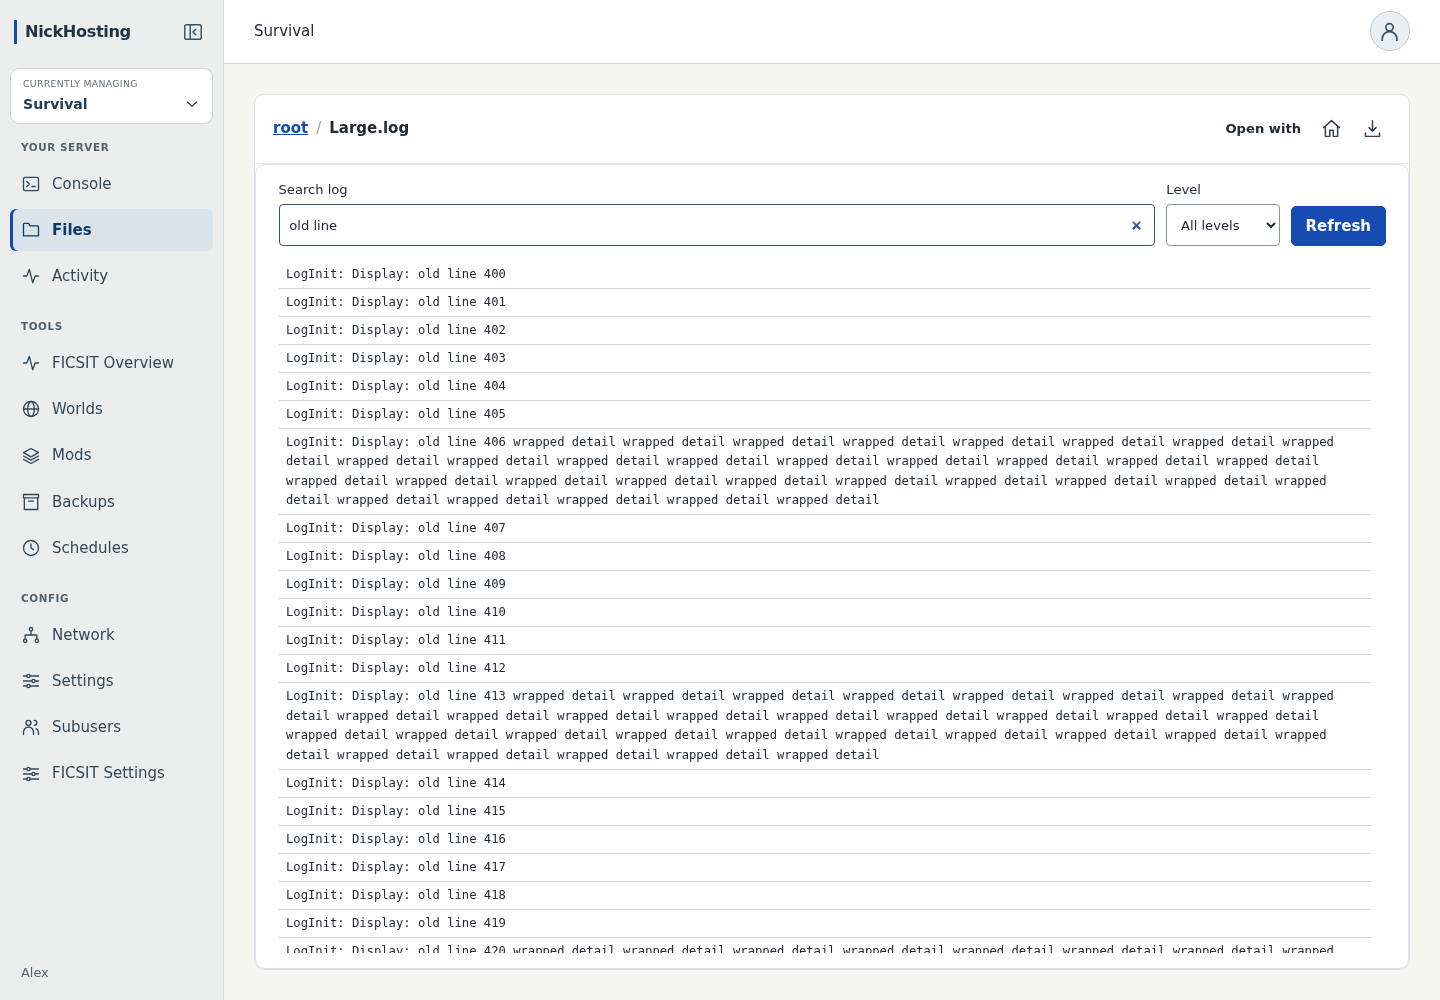
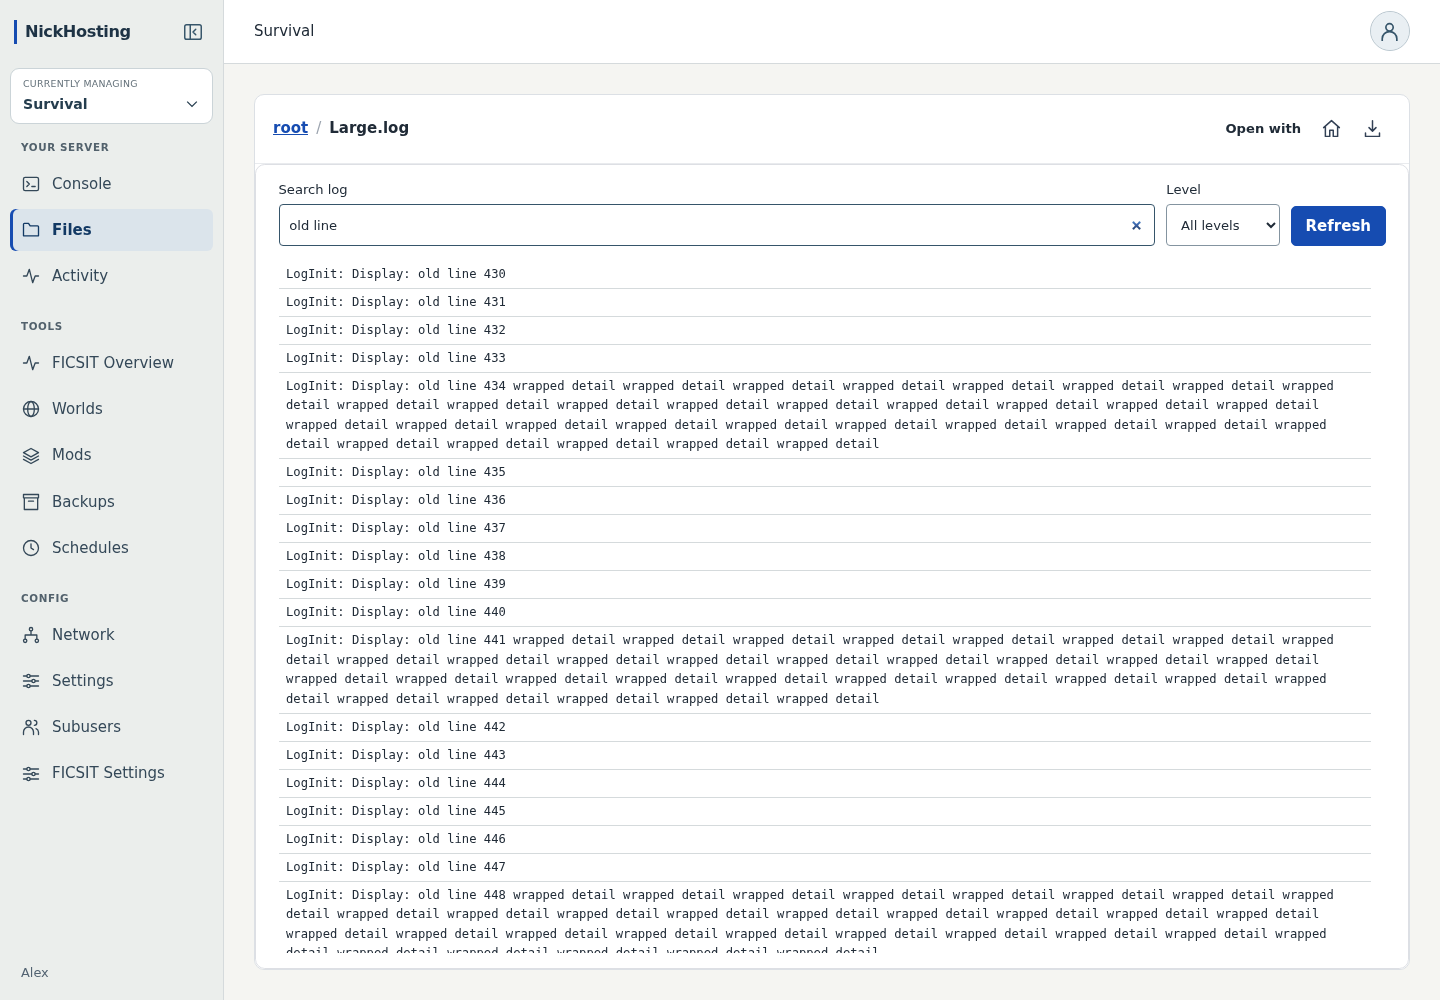
fix(satisfactory): prefetch log pages before scroll edges

Changed region(s): [[0.1875, 0.372, 0.9375, 0.527], [0.1875, 0.62, 0.9375, 0.775], [0.1875, 0.868, 0.9375, 0.961]]

diff --git a/apps/web/tests/satisfactory-diagnostics.browser.test.ts b/apps/web/tests/satisfactory-diagnostics.browser.test.ts
@@ -318,7 +318,13 @@ w0RLozHnei051W51+srovbeS+CruyOGw
     for (let index = 0; index < 4; index++) {
       const last = Number(await scroller.locator('[data-line]').last().getAttribute('data-line'));
       await scroller.evaluate((node) => {
-        node.scrollTop = node.scrollHeight;
+        const rows = node.querySelectorAll<HTMLElement>('[data-line]');
+        const boundary = rows[rows.length - 31];
+        if (!boundary) throw new Error('Missing prefetch boundary');
+        node.scrollTop +=
+          boundary.getBoundingClientRect().bottom - node.getBoundingClientRect().bottom;
+        if (node.scrollHeight - node.scrollTop - node.clientHeight < 300)
+          throw new Error('Prefetch must start well before the bottom');
         node.dispatchEvent(new Event('scroll'));
       });
       await browserExpect
@@ -330,20 +336,22 @@ w0RLozHnei051W51+srovbeS+CruyOGw
     }
     const firstLine = await scroller.locator('[data-line]').first().getAttribute('data-line');
     const anchorBefore = await scroller.evaluate((node) => {
-      node.scrollTop = 0;
-      const row = node.querySelector('[data-line]');
+      const row = node.querySelectorAll<HTMLElement>('[data-line]')[30];
+      if (!row) throw new Error('Missing prefetch anchor');
+      node.scrollTop += row.getBoundingClientRect().top - node.getBoundingClientRect().top;
+      if (node.scrollTop < 300) throw new Error('Prefetch must start well before the top');
       const top = row?.getBoundingClientRect().top;
       node.dispatchEvent(new Event('scroll'));
-      return top;
+      return { top, line: row.dataset.line };
     });
     await browserExpect
       .poll(async () =>
         Number(await scroller.locator('[data-line]').first().getAttribute('data-line')),
       )
       .toBeLessThan(Number(firstLine));
-    const anchorAfter = await scroller.locator(`[data-line="${firstLine}"]`).boundingBox();
-    if (!anchorAfter || anchorBefore === undefined) throw new Error('Missing retained row');
-    expect(Math.abs(anchorAfter.y - anchorBefore)).toBeLessThan(2);
+    const anchorAfter = await scroller.locator(`[data-line="${anchorBefore.line}"]`).boundingBox();
+    if (!anchorAfter || anchorBefore.top === undefined) throw new Error('Missing retained row');
+    expect(Math.abs(anchorAfter.y - anchorBefore.top)).toBeLessThan(2);
     await checkViewport();
     await page.screenshot({ path: 'test-results/satisfactory-log-desktop-en.png', fullPage: true });
     expect(downloads.get('Large.log')).toBe(1);

diff --git a/games/satisfactory/src/viewers/log-viewer.tsx b/games/satisfactory/src/viewers/log-viewer.tsx
@@ -254,12 +254,24 @@ export default function LogViewer({ source, host }: GameViewerProps) {
       )
         return;
       if (fill && element.scrollHeight > element.clientHeight + 1) return;
-      if (current.offset > 0 && (fill || element.scrollTop < 160)) void perform('before');
-      else if (
-        current.offset + current.rows.length < current.total &&
-        (fill || element.scrollHeight - element.scrollTop - element.clientHeight < 160)
+      // Measure real rows so wrapped lines get the same advance notice as short ones.
+      // Limit prefetch margins for short final pages.
+      const rows = element.querySelectorAll<HTMLElement>('[data-line]');
+      const margin = Math.min(40, Math.floor(rows.length / 4));
+      const bounds = element.getBoundingClientRect();
+      const before = rows[margin]?.getBoundingClientRect().top;
+      const after = rows[rows.length - 1 - margin]?.getBoundingClientRect().bottom;
+      const nearBefore = fill || (before !== undefined && before >= bounds.top);
+      const nearAfter = fill || (after !== undefined && after <= bounds.bottom);
+      const canBefore = current.offset > 0 && nearBefore;
+      const canAfter = current.offset + current.rows.length < current.total && nearAfter;
+      if (
+        canBefore &&
+        (!canAfter ||
+          element.scrollTop <= element.scrollHeight - element.scrollTop - element.clientHeight)
       )
-        void perform('after');
+        void perform('before');
+      else if (canAfter) void perform('after');
     };
     runtime.current = {
       scroll: () => loadEdge(),

diff --git a/docs/M6-SATISFACTORY.md b/docs/M6-SATISFACTORY.md
@@ -1745,3 +1745,5 @@ Axe, independent review, root/web typechecks, lint, build and i18n checks passed
 No backend API, migration, dependency, infrastructure or real game-data operation;
 existing source watchers serve the frontend changes. Rollback is the preceding
 application revision; snapshot/session lifecycle is unchanged.
+
+Log scrolling prefetches adjacent pages with 40 rendered rows remaining (capped at a quarter of the current window for short pages), using actual wrapped-row geometry. The nearest edge wins if both margins overlap. Browser coverage loads in both directions while more than 300 pixels remain and verifies the reading anchor and bounded window.
